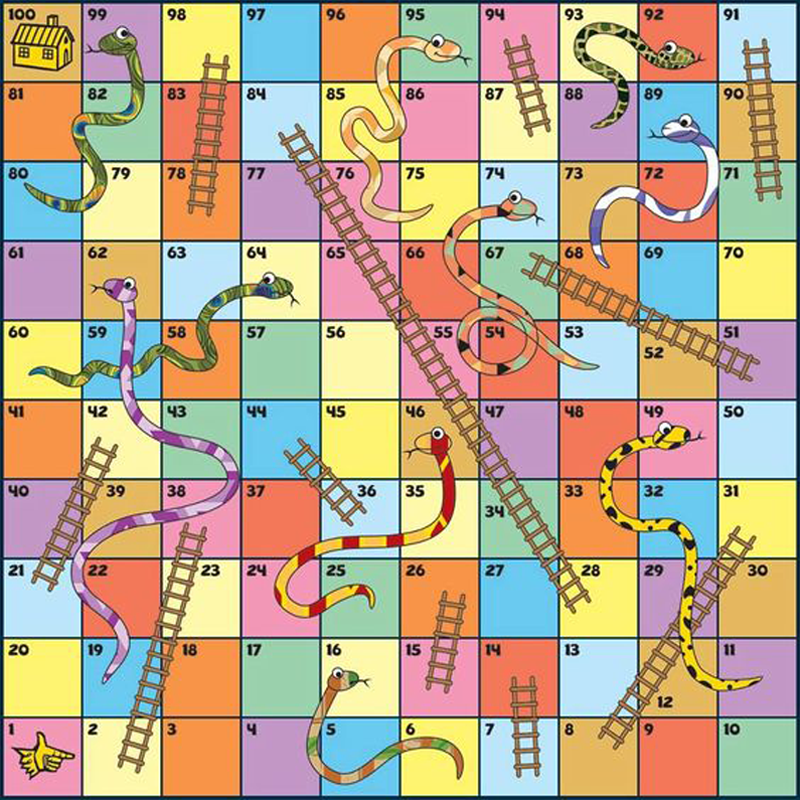
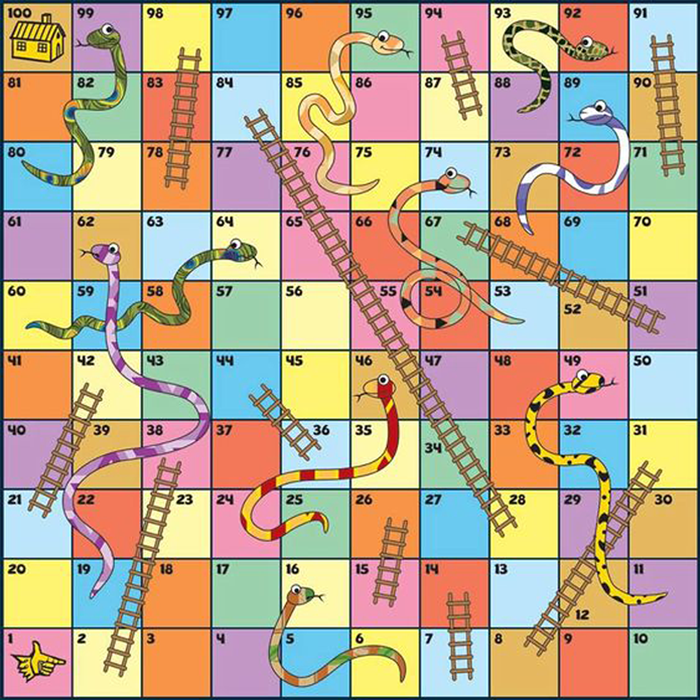
Change image size and extract pieces to piece

Changed region(s): [[0.0, 0.0, 1.0, 1.0], [0.57, 0.0, 0.66, 0.03], [0.24, 0.54, 0.27, 0.57]]

diff --git a/src/gui/GamePane.java b/src/gui/GamePane.java
@@ -25,17 +25,21 @@ public class GamePane extends JPanel {
 		setLayout(null);
 		ImageIcon boardImage = new ImageIcon(this.getClass().getResource("/img/board.png"));
 		JLabel board = new JLabel(boardImage);
-		board.setBounds(300, 0, 800, 800);
+		board.setBounds(300, 0, 720, 720);
 		add(board);
 
 		JPanel controller = new JPanel();
-		controller.setBounds(0, 0, 300, 800);
+		controller.setBounds(0, 0, 300, 720);
 		controller.setBackground(Color.PINK);
 		controller.setBorder(BorderFactory.createEmptyBorder(20, 0, 0, 0));
 		JLabel label = new JLabel("Snake and Ladder");
 		label.setFont(new Font(Font.MONOSPACED, Font.BOLD, 25));
-		
+
+		JLabel turn = new JLabel("Player1 turn");
+		turn.setForeground(Color.BLUE);
+		turn.setFont(new Font("Comic Sans MS", Font.PLAIN, 30));
 		controller.add(label);
+		controller.add(turn);
 		add(controller);
 	}
 }

diff --git a/src/gui/GameUI.java b/src/gui/GameUI.java
@@ -20,7 +20,7 @@ public class GameUI {
 
 	private void init() {
 		frame.setResizable(false);
-		frame.setSize(1105, 835);
+		frame.setSize(1025, 753);
 		setPanel(new MenuPane());
 	}
 
